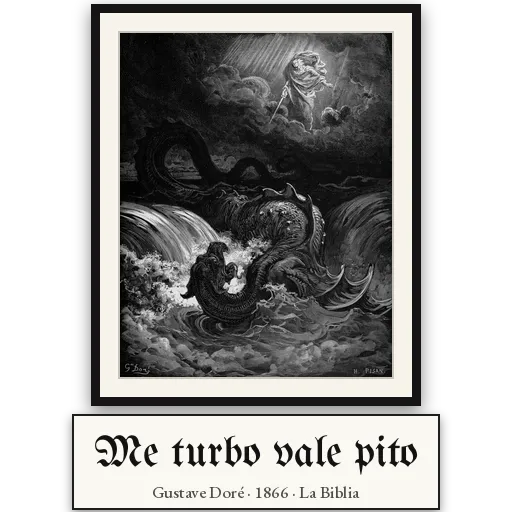
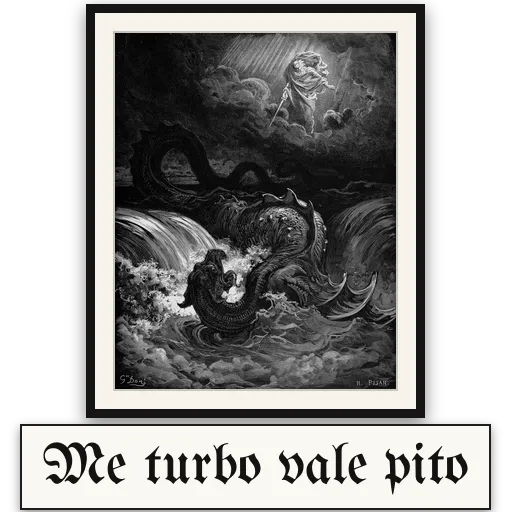
Arte: placas solo con el título, más grande (2 renglones si es largo); buchón: culito arremangado

Changed region(s): [[0.0312, 0.0, 0.9688, 1.0], [0.3125, 0.2188, 0.3438, 0.25]]

diff --git a/src/arte.py b/src/arte.py
@@ -57,19 +57,26 @@ def print_frame(w, h, t=9, mat=20):
 
 
 def plaque(title, meta, style):
-    """museum label: title + small meta line, brass (gold) or white card (print)."""
+    """museum label with just the title, brass (gold) or white card (print). `meta` is kept for the credits only."""
     if style == "gold":
-        tf = font("EBGaramond-Italic.ttf", 44, 600)
+        tf = font("EBGaramond-Italic.ttf", 58, 750)
         col, meta_col = (40, 26, 8), (70, 50, 20)
     else:
-        tf = font("UnifrakturMaguntia.ttf", 44)
+        tf = font("UnifrakturMaguntia.ttf", 58)
         col, meta_col = (20, 18, 18), (80, 76, 70)
-    mf = font("EBGaramond.ttf", 17, 500)
-    while tf.getlength(title) > 440:
+    # one big line if it fits, otherwise two balanced lines at a still-large size
+    lines = [title]
+    if tf.getlength(title) > 450:
+        words = title.split()
+        best = min(range(1, len(words)), key=lambda k: abs(tf.getlength(" ".join(words[:k])) - tf.getlength(" ".join(words[k:]))))
+        lines = [" ".join(words[:best]), " ".join(words[best:])]
+        tf = tf.font_variant(size=52)
+    while max(tf.getlength(l) for l in lines) > 450:
         tf = tf.font_variant(size=tf.size - 2)
-    tw = max(tf.getlength(title), mf.getlength(meta)) + 44
-    th = 96
-    w = int(min(480, tw))
+    lh = int(tf.size * 1.05)
+    tw = max(tf.getlength(l) for l in lines) + 44
+    th = 26 + lh * len(lines)
+    w = int(min(490, tw))
     im = Image.new("RGBA", (w, th))
     d = ImageDraw.Draw(im)
     if style == "gold":
@@ -83,8 +90,8 @@ def plaque(title, meta, style):
             d.ellipse([x - 4, y - 4, x + 4, y + 4], fill=(150, 110, 45, 255))
     else:
         d.rectangle([0, 0, w - 1, th - 1], fill=(250, 248, 243, 255), outline=(30, 28, 28, 255), width=2)
-    d.text((w / 2, 40), title, font=tf, fill=col, anchor="mm")
-    d.text((w / 2, 78), meta, font=mf, fill=meta_col, anchor="mm")
+    for k, l in enumerate(lines):
+        d.text((w / 2, 13 + lh * k + lh / 2), l, font=tf, fill=col, anchor="mm")
     return im
 
 
@@ -102,7 +109,8 @@ def piece(img, title, meta, style, crop=None):
     if crop:
         W, H = art.size
         art = art.crop((int(crop[0] * W), int(crop[1] * H), int(crop[2] * W), int(crop[3] * H)))
-    box_w, box_h = 480, 402  # room for frame + art above the plaque
+    pl = plaque(title, meta, style)
+    box_w, box_h = 480, S - pl.height - 12  # frame + art get whatever the plaque leaves
     if style == "gold":
         t = 30
         inner = (box_w - 2 * t, box_h - 2 * t)
@@ -123,7 +131,6 @@ def piece(img, title, meta, style, crop=None):
     sh, pad = shadow(frame)
     out.alpha_composite(sh, (fx - pad, fy - pad + 6))
     out.alpha_composite(frame, (fx, fy))
-    pl = plaque(title, meta, style)
     py = S - pl.height - 2
     sh, pad = shadow(pl, blur=5, alpha=110)
     out.alpha_composite(sh, ((S - pl.width) // 2 - pad, py - pad + 4))

diff --git a/src/buchon.py b/src/buchon.py
@@ -190,8 +190,23 @@ def culiacan():
                        [("Puro Culiacán", 86, 10), ("Sinaloa", 96, 405)], extras, seed=5, face=(170, 90, 330, 200))
 
 
+def arremangado():
+    pk = m6.load("pp/FANMADE_Pinkie_Pie_vector_2.t.png", h=340)
+    def extras(fr, t, layer):
+        if layer == "behind":
+            m6.rays(fr, t * 50, [(212, 165, 50), (50, 38, 10)], alpha=80, n=16, c=(180, 280))
+        else:
+            for k, (x, y) in enumerate(((60, 210), (70, 330))):  # hearts pointing at the flank
+                s = 1 + 0.18 * max(0, math.sin(2 * math.pi * (t * 2 + k * 0.5)))
+                h = m6.emoji("1f496", int(56 * s))
+                fr.alpha_composite(h, (x - h.width // 2, y - h.height // 2))
+            fr.alpha_composite(m6.emoji("1f525", 64), (20, 250))
+    return base_frames(pk, ((S - pk.width) // 2 + 20, 76), None,
+                       [("Soy Fan de tu", 80, 10), ("Culito Arremangado", 80, 412)], extras, seed=6, face=(250, 100, 420, 220))
+
+
 if __name__ == "__main__":
-    for name in sys.argv[1:] or ("enamorado", "hummers", "bien_loco", "tu_boca", "culiacan"):
+    for name in sys.argv[1:] or ("enamorado", "hummers", "bien_loco", "tu_boca", "culiacan", "arremangado"):
         frames, delays = globals()[name]()
         d = os.path.join(here, "buchframes", name); os.makedirs(d, exist_ok=True)
         for f in os.listdir(d):

diff --git a/README.md b/README.md
@@ -33,9 +33,9 @@ Stickers de WhatsApp: ponis, moai gigachad, tarjetas de tía y frases. Todos son
 
 <img src="packs/tias/pinkie_buenos_dias_alegria.webp" width="128" title="pinkie_buenos_dias_alegria"> <img src="packs/tias/st1_buenos_dias.webp" width="128" title="st1_buenos_dias"> <img src="packs/tias/st1_buenos_dias_transparente.webp" width="128" title="st1_buenos_dias_transparente"> <img src="packs/tias/st2_fin_de_semana.webp" width="128" title="st2_fin_de_semana"> <img src="packs/tias/st2_fin_de_semana_transparente.webp" width="128" title="st2_fin_de_semana_transparente"> <img src="packs/tias/st3_buenas_noches.webp" width="128" title="st3_buenas_noches"> <img src="packs/tias/st3_buenas_noches_transparente.webp" width="128" title="st3_buenas_noches_transparente"> <img src="packs/tias/st4_lindo_dia.webp" width="128" title="st4_lindo_dia"> <img src="packs/tias/st4_lindo_dia_transparente.webp" width="128" title="st4_lindo_dia_transparente"> <img src="packs/tias/ti_ahorcar_rukas.webp" width="128" title="ti_ahorcar_rukas"> <img src="packs/tias/ti_feliz_lunes.webp" width="128" title="ti_feliz_lunes"> <img src="packs/tias/ti_feliz_viernes.webp" width="128" title="ti_feliz_viernes"> <img src="packs/tias/ti_vete_alv.webp" width="128" title="ti_vete_alv"> <img src="packs/tias/twilight_que_te_valga.webp" width="128" title="twilight_que_te_valga">
 
-### Buchones (animados) — `packs/buchones` (5)
+### Buchones (animados) — `packs/buchones` (6)
 
-<img src="packs/buchones/buchon_bien_loco.webp" width="128" title="buchon_bien_loco"> <img src="packs/buchones/buchon_culiacan.webp" width="128" title="buchon_culiacan"> <img src="packs/buchones/buchon_enamorado.webp" width="128" title="buchon_enamorado"> <img src="packs/buchones/buchon_hummers.webp" width="128" title="buchon_hummers"> <img src="packs/buchones/buchon_tu_boca.webp" width="128" title="buchon_tu_boca">
+<img src="packs/buchones/buchon_arremangado.webp" width="128" title="buchon_arremangado"> <img src="packs/buchones/buchon_bien_loco.webp" width="128" title="buchon_bien_loco"> <img src="packs/buchones/buchon_culiacan.webp" width="128" title="buchon_culiacan"> <img src="packs/buchones/buchon_enamorado.webp" width="128" title="buchon_enamorado"> <img src="packs/buchones/buchon_hummers.webp" width="128" title="buchon_hummers"> <img src="packs/buchones/buchon_tu_boca.webp" width="128" title="buchon_tu_boca">
 
 ### Moai (animados) — `packs/moai-animado` (5)
 
